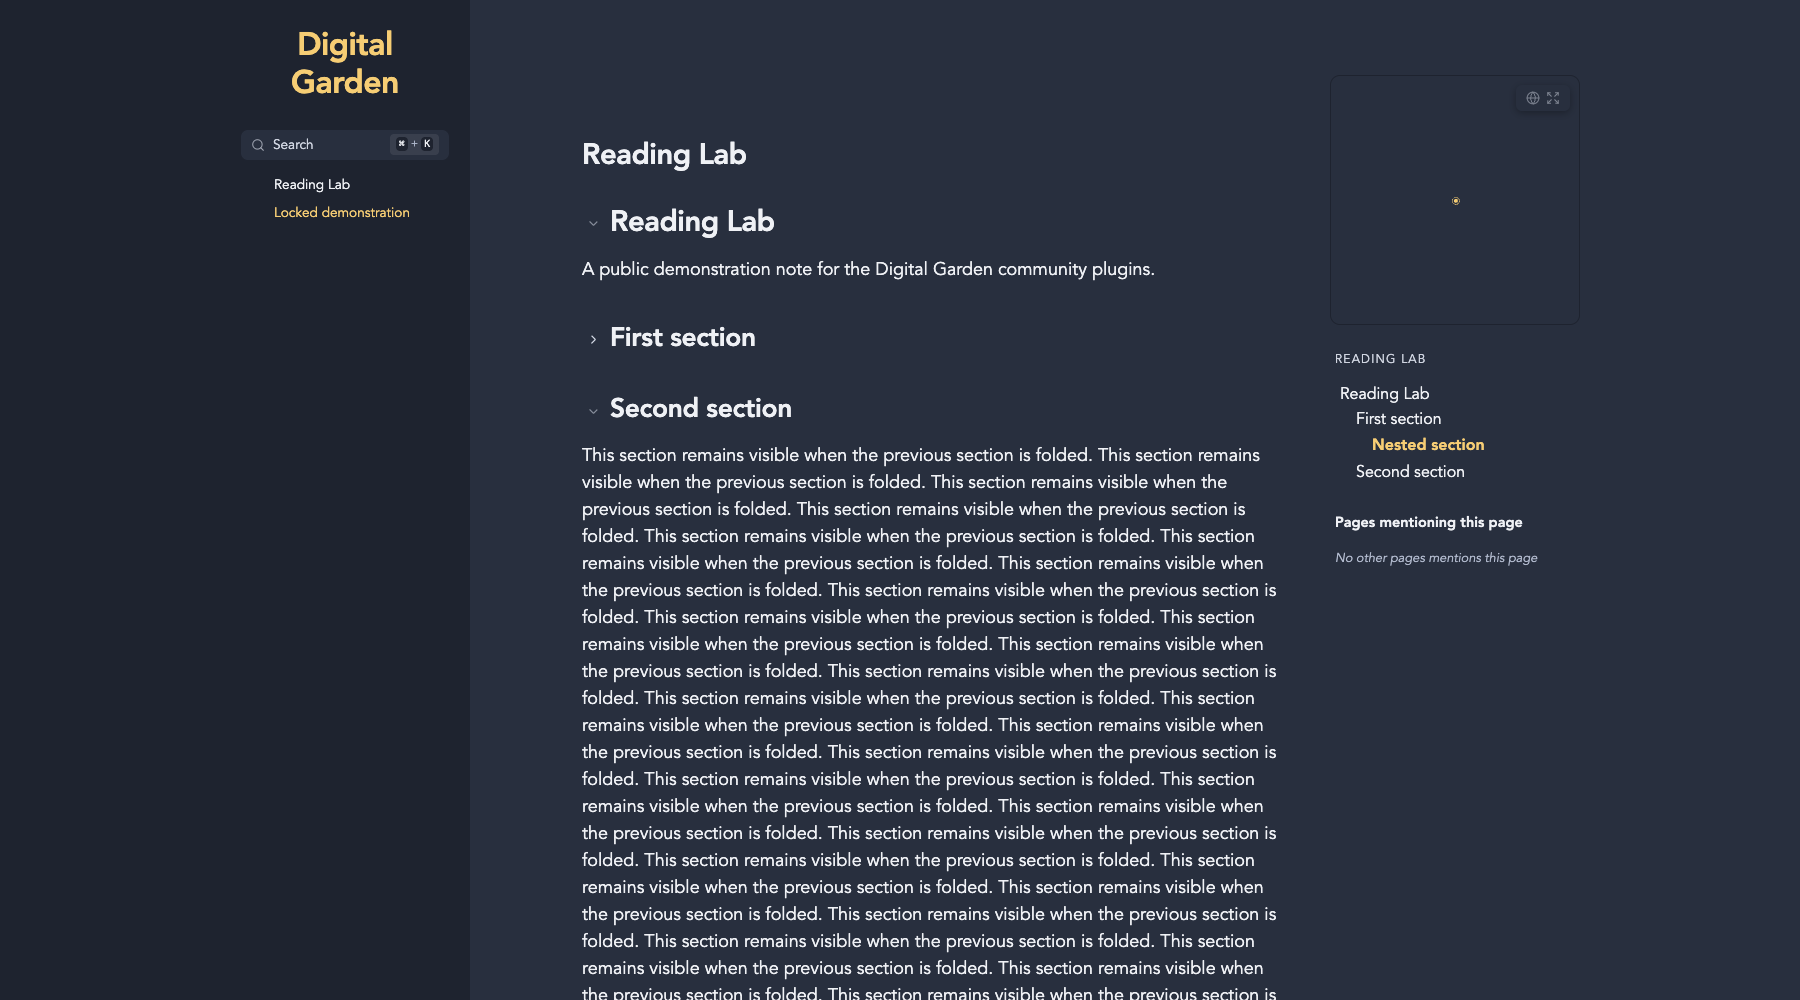
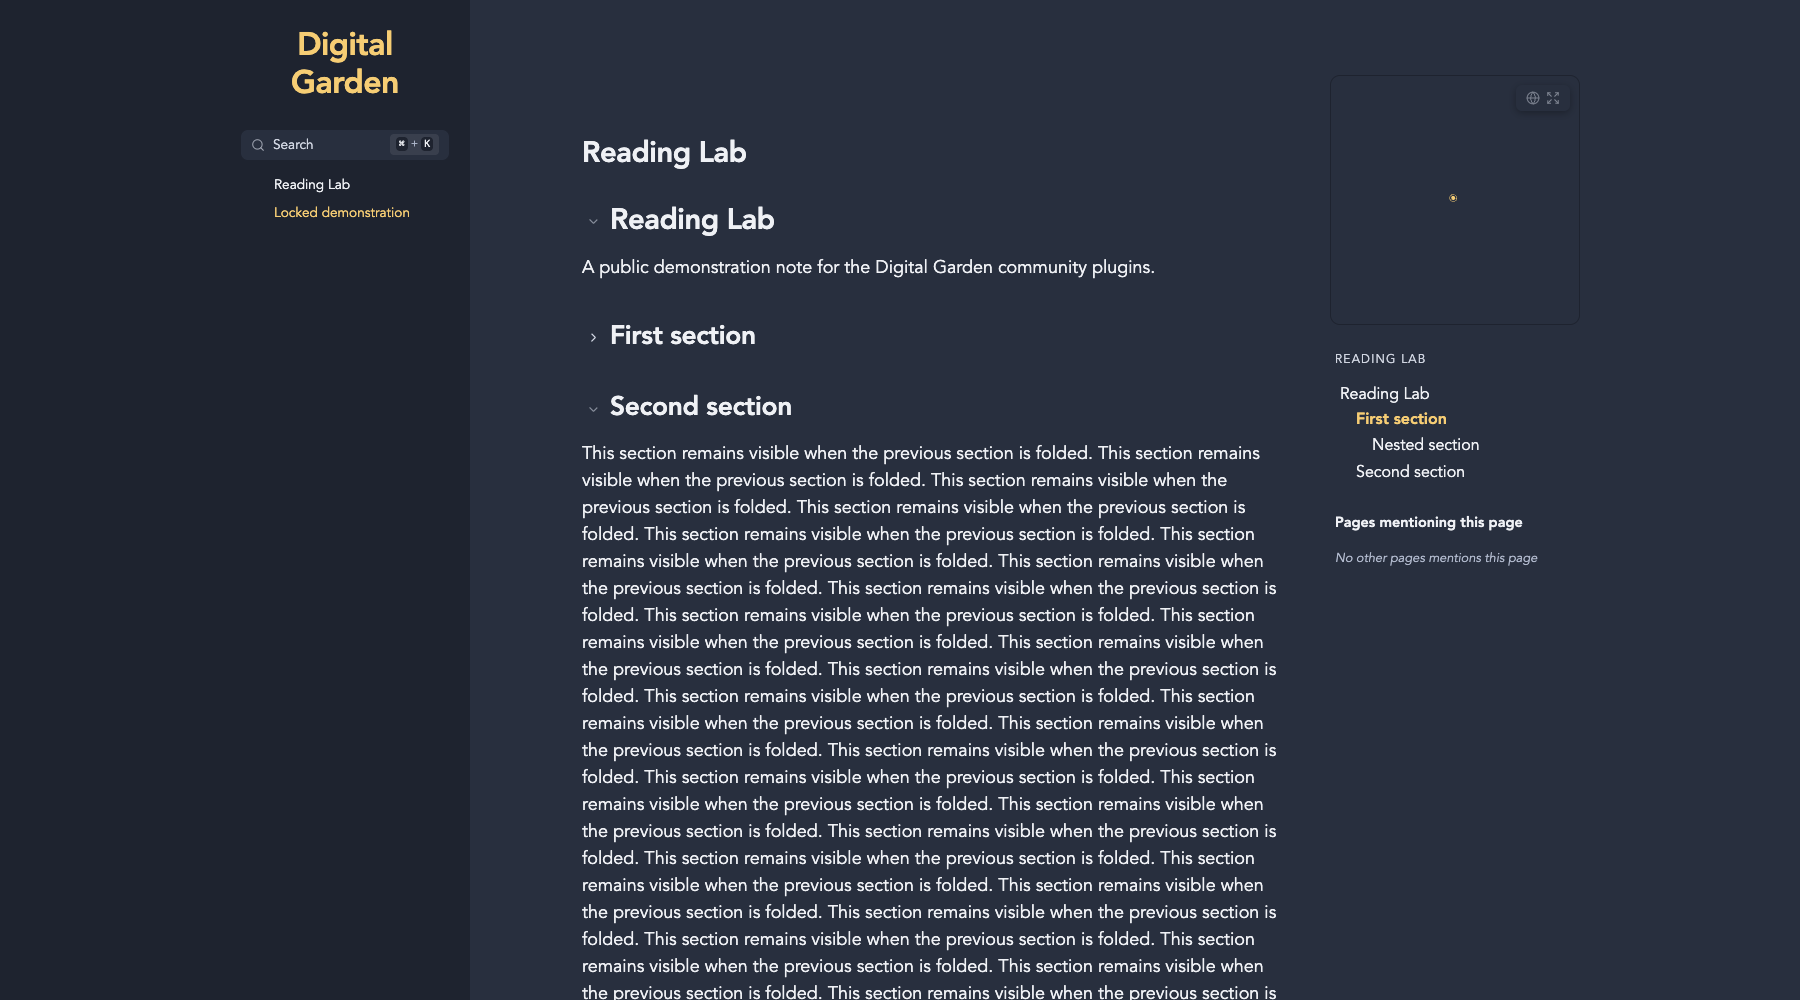
Complete standalone folding and final compatibility checks

diff --git a/assets/heading-folding.js b/assets/heading-folding.js
@@ -93,6 +93,28 @@
     content.dgFolding = { reveal: reveal };
     scan();
     onHash();
+    var toc = document.querySelector('.toc-container');
+    var tocQueued = false;
+    function correctFoldedActive() {
+      tocQueued = false;
+      var active = toc && toc.querySelector('a.toc-active[href^="#"]');
+      var target = active && hashTarget(active.hash);
+      var owner = target && target.closest('[data-dg-fold-hidden]');
+      if (!owner) return;
+      while (owner) {
+        target = document.getElementById(owner.getAttribute('data-dg-fold-owner'));
+        owner = target && target.closest('[data-dg-fold-hidden]');
+      }
+      var replacement = target && Array.from(toc.querySelectorAll('a[href^="#"]')).find(function (link) { return hashTarget(link.hash) === target; });
+      if (replacement && replacement !== active) {
+        active.classList.remove('toc-active');
+        replacement.classList.add('toc-active');
+      }
+    }
+    if (toc) new MutationObserver(function () {
+      if (!tocQueued) { tocQueued = true; requestAnimationFrame(correctFoldedActive); }
+    }).observe(toc, {subtree:true, attributes:true, attributeFilter:['class']});
+    document.addEventListener('dg:fold-change', correctFoldedActive);
     observer = new MutationObserver(function (records) {
       if (records.some(function (record) { return Array.from(record.addedNodes).some(function (node) { return node.nodeType === 1 && !node.closest(".dg-fold-button") && (level(node) || node.querySelector("h1,h2,h3,h4,h5,h6")); }); })) {
         scan();

diff --git a/README.md b/README.md
@@ -14,6 +14,8 @@ Use the small heading disclosure button (Enter/Space on keyboard) to hide conten
 
 ## Settings
 
+Core TOC highlighting is corrected when its active target is hidden by a fold, even without TOC Settings. This observes core state rather than installing another scroll tracker.
+
 | Key | Setting | Default |
 | --- | --- | --- |
 
